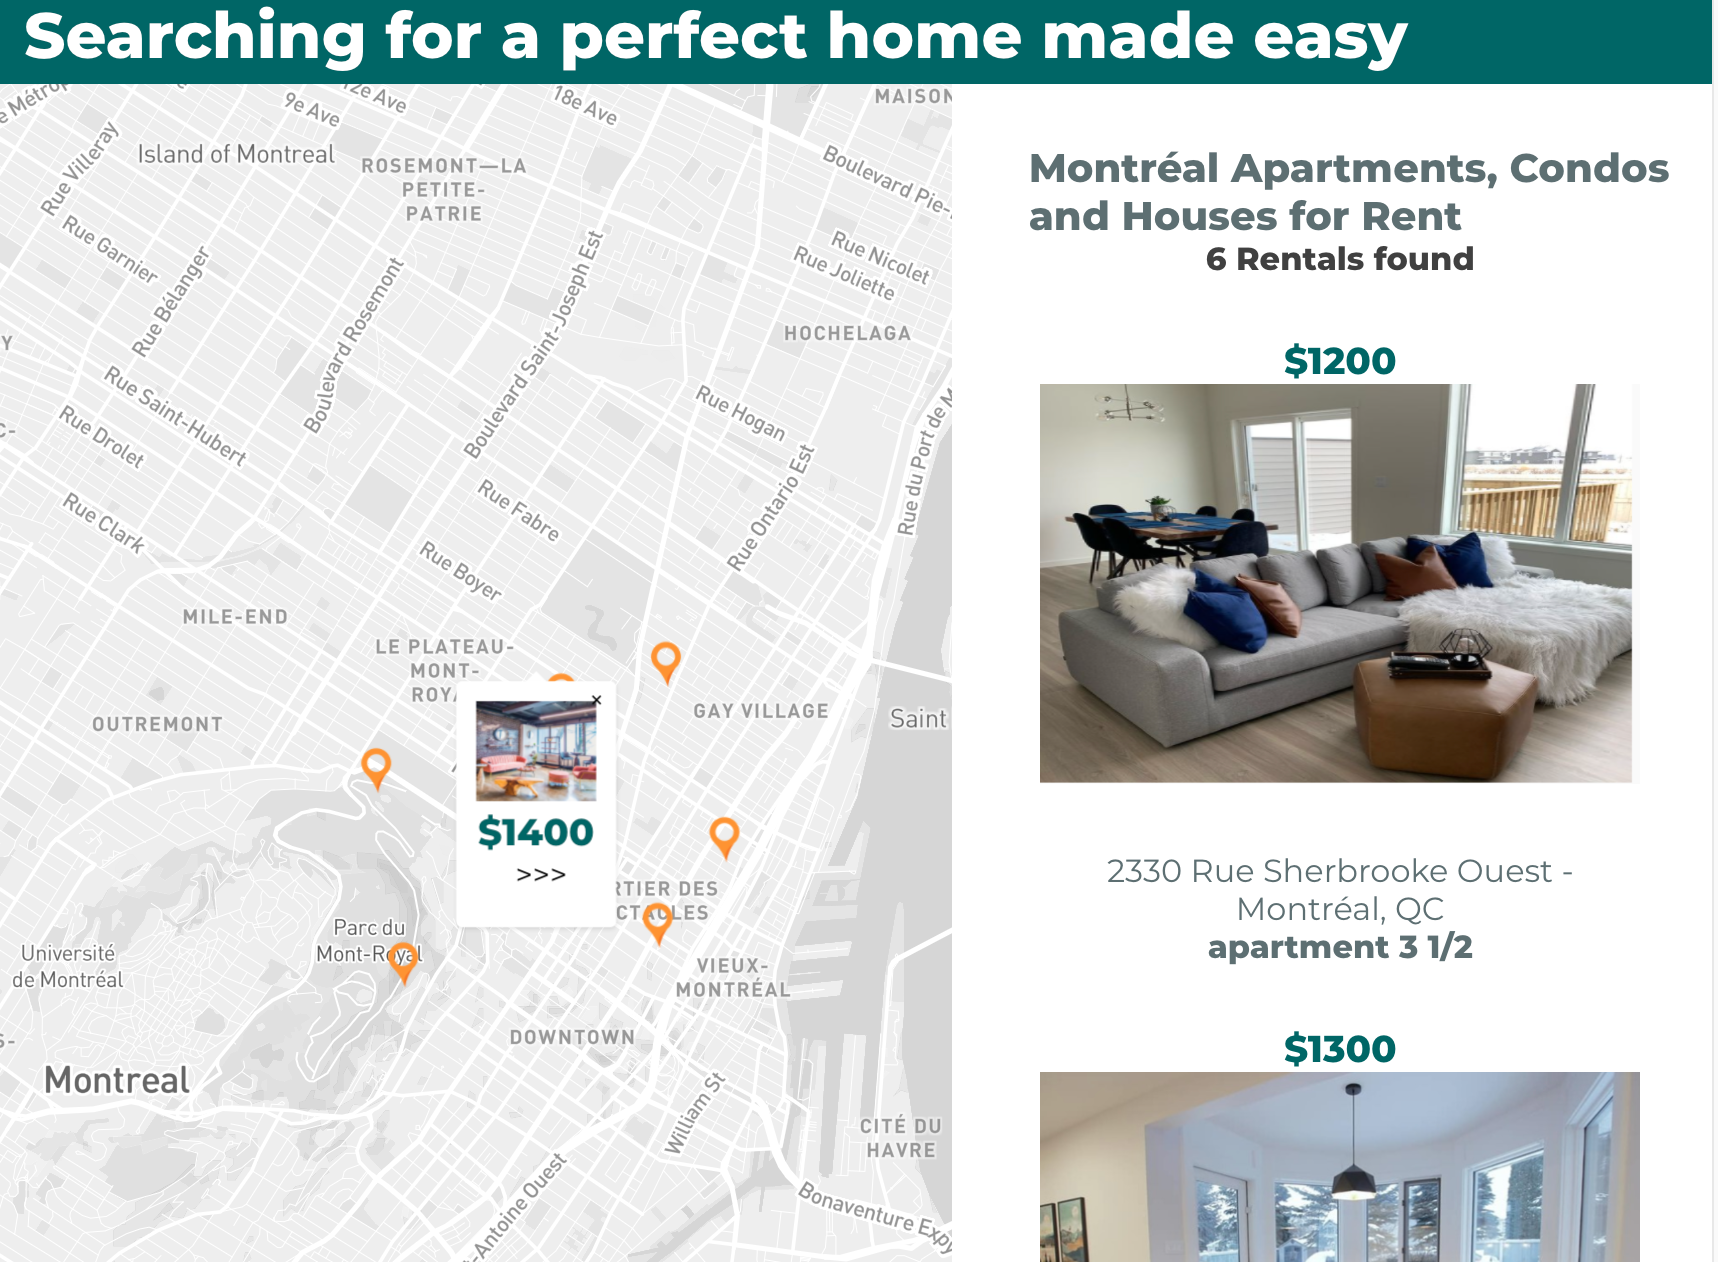
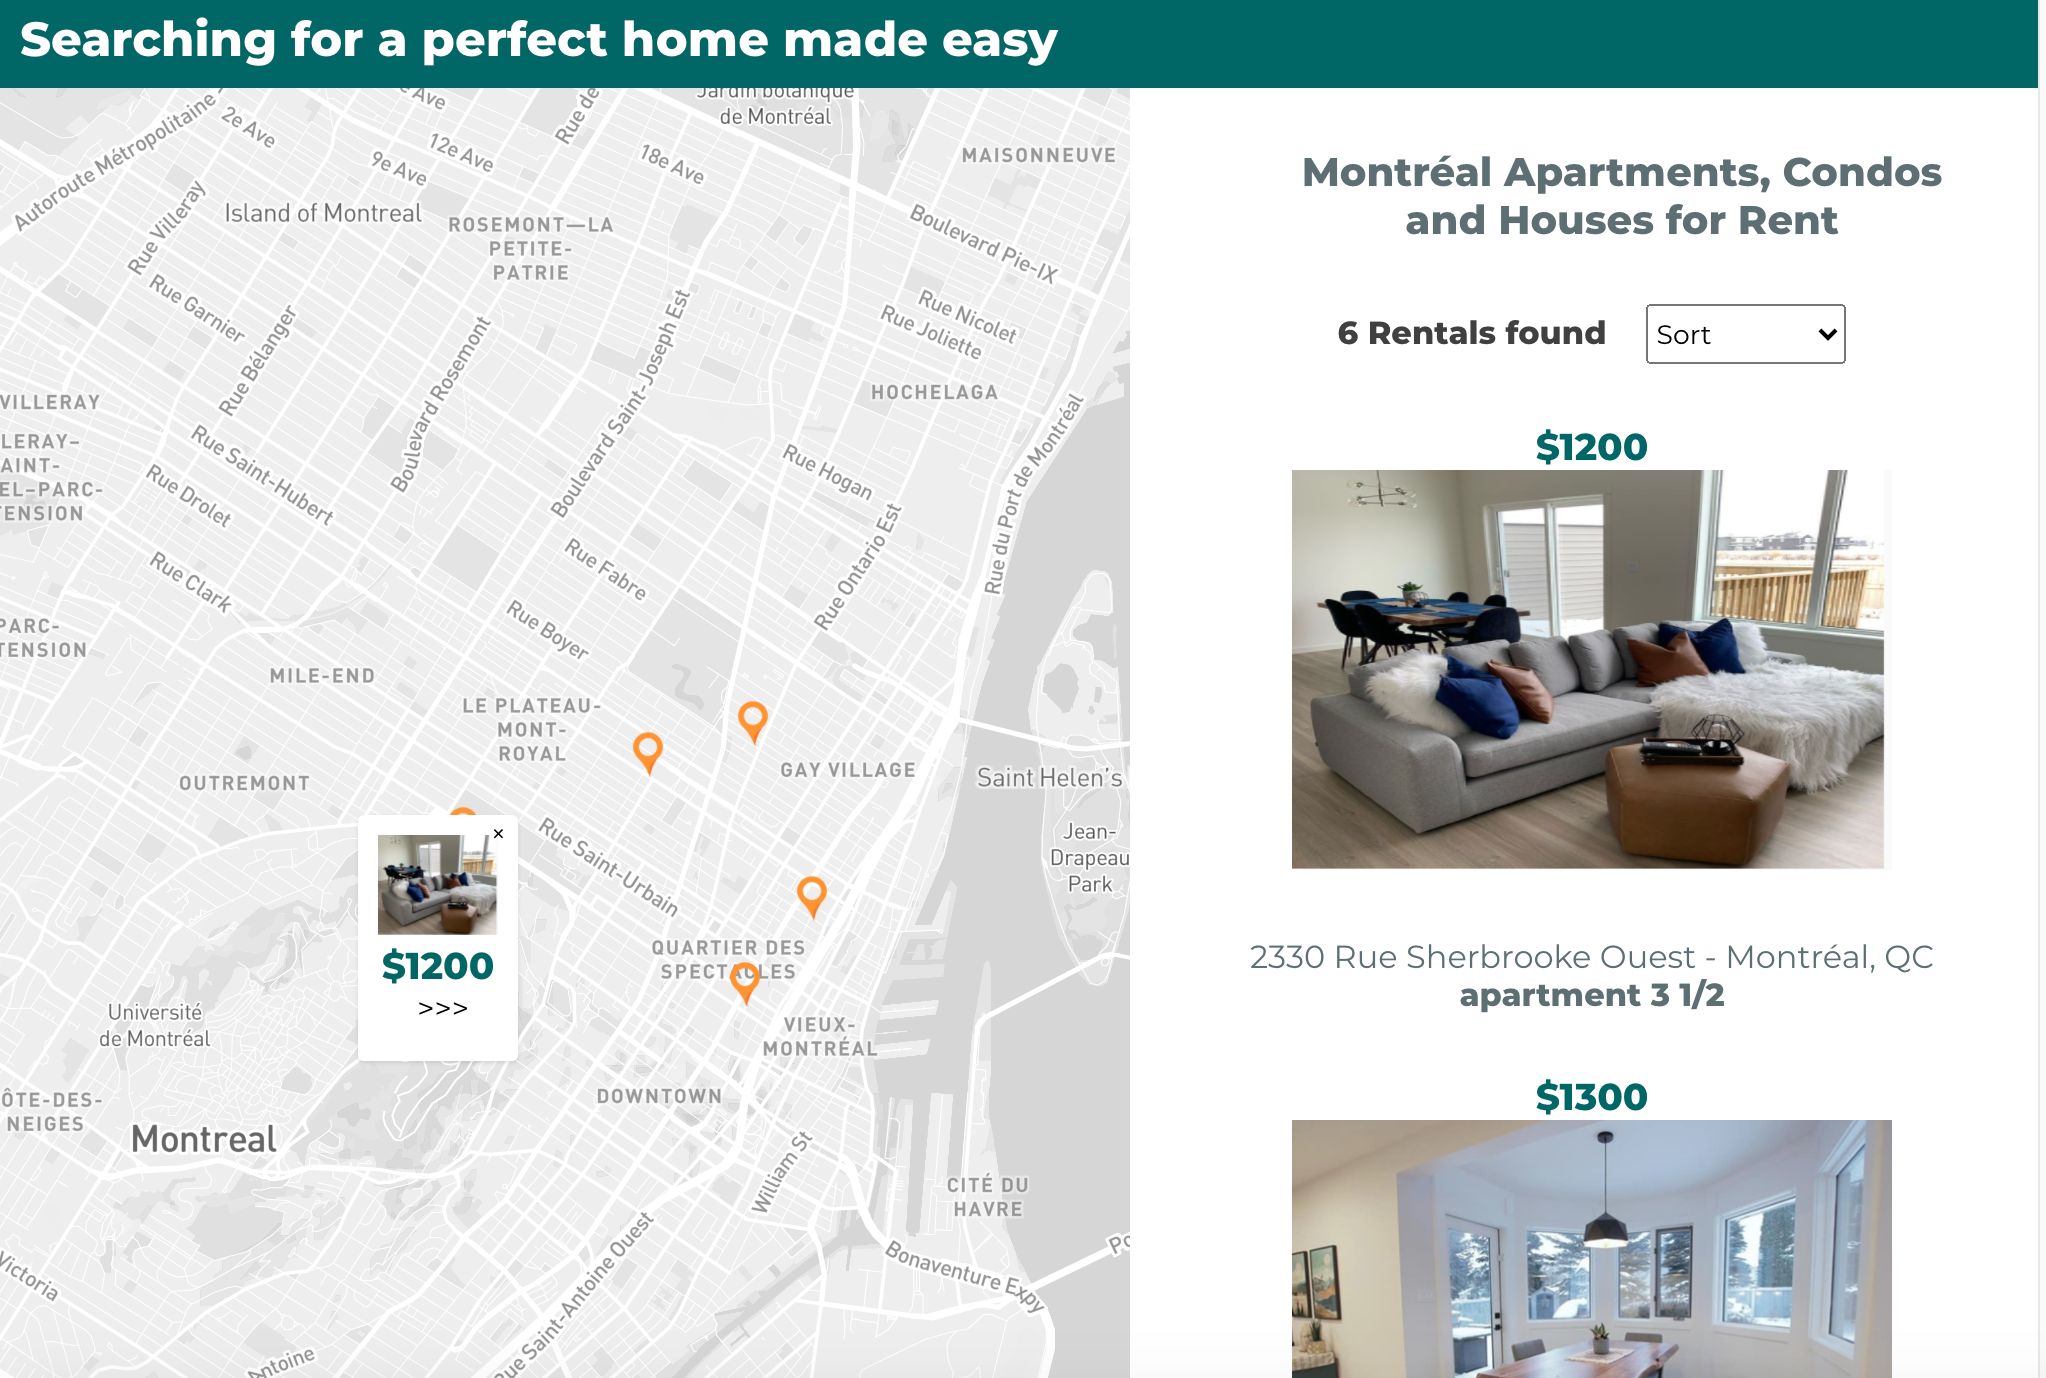
added sort

diff --git a/src/components/Sidebar.js b/src/components/Sidebar.js
@@ -1,12 +1,33 @@
-import React from "react";
+import React, {useState} from "react";
 import { useSelector } from "react-redux";
 import styled from "styled-components";
 import { getSelectedOffer } from "../reducers";
 import Slider from "./Slider";
 
+const sortOptions = ["Sort", "Price - $", "Price -$$$"];
+
 const Sidebar = (props) => {
   const selectedOffer = useSelector(getSelectedOffer);
-
+  const [option, setOption] = useState("Sort");
+  const handleOptionSelect = (ev) => {
+    setOption(ev.target.value);
+  };
+  const compareDesc = (a, b) => {
+    return a.rent > b.rent ? 1 : -1;
+  };
+  const compareAsc = (a, b) => {
+    return a.rent < b.rent ? 1 : -1;
+  };
+  const filterOffers = (offers) => {
+    if (option === "Sort") {
+      return offers;
+    } else if (option === "Price - $") {
+      return offers.sort(compareDesc);
+    } else if (option === "Price -$$$") {
+      return offers.sort(compareAsc);
+    }
+  };
+  const offers = filterOffers(props.offers);
   return (
     <div>
       <Head>{""} </Head>
@@ -21,9 +42,15 @@ const Sidebar = (props) => {
       ) : (
         <div>
           <Head>Montréal Apartments, Condos and Houses for Rent </Head>
-          <NumOffers>{props.offers.length} Rentals found</NumOffers>
+          <NumOffers>{props.offers.length} Rentals found
+            <Select value={option} onChange={handleOptionSelect}>
+                {sortOptions.map((sort, i) => (
+                  <option key={i}>{sort}</option>
+                ))}
+              </Select>
+          </NumOffers>
           <Wrapper>
-            {props.offers.map((offer) => {
+            {offers.map((offer) => {
               return (
                 <ul key={offer.id}>
                   <h3> {offer.rent}</h3>
@@ -76,5 +103,9 @@ const NumOffers = styled.p`
   margin: 0;
   text-align: center;
 `;
-
+const Select = styled.select`
+  width: 100px;
+  margin-left: 20px;
+  height: 30px;
+`;
 export default Sidebar;
